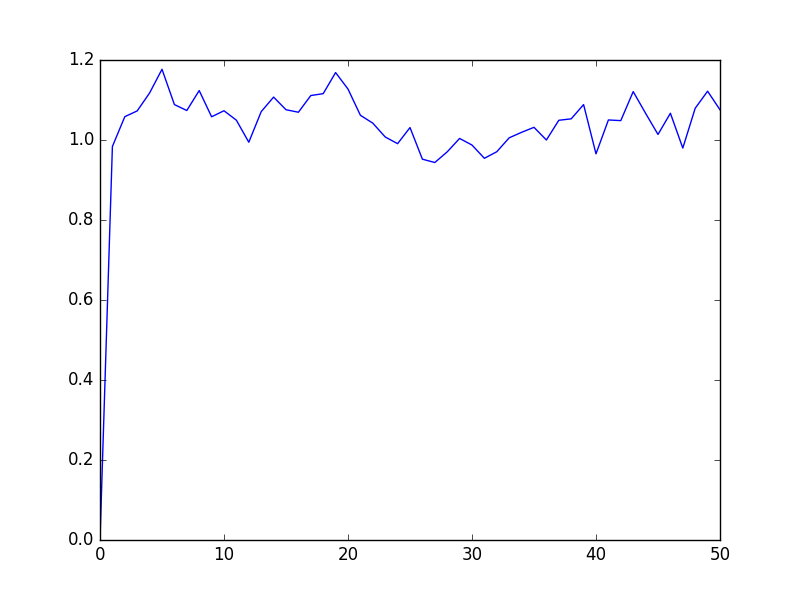
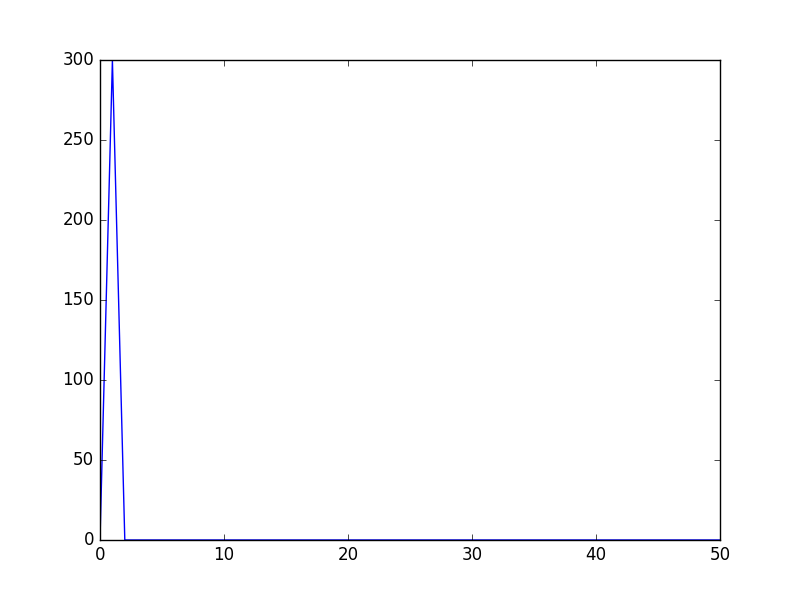
before refactor

diff --git a/learn.py b/learn.py
@@ -17,18 +17,19 @@ np.random.seed(0)
 # Parameters
 learning_rate = 0.0001
 num_episodes = 501
-initial_eps = 1
-discount = 0.9
-batch_size = 10
-buffer = 40
+initial_eps = 0.5
+eps_decay = 0.999
+discount = 0.7
+batch_size = 40
+buffer = 3000
 log_freq = 10
 num_runs = 1
-reg_constant = 0
+reg_constant = 0.01
 grad_update_freq = 50
 
 # Network Parameters
-n_hidden_1 = 20 # 1st layer number of nodes
-n_hidden_2 = 20 # 2nd layer number of nodes
+n_hidden_1 = 30 # 1st layer number of nodes
+n_hidden_2 = 30 # 2nd layer number of nodes
 n_input = 4 # input layer (state)
 n_output = 2 # output layer (q values for actions)
 
@@ -45,14 +46,14 @@ target_output = tf.placeholder(shape=[1,n_output],dtype=tf.float32)
 tvars = tf.trainable_variables()
 reg_losses = tf.get_collection(tf.GraphKeys.REGULARIZATION_LOSSES)
 loss = tf.reduce_sum(tf.square(target_output - current_output)) + reg_constant * sum(reg_losses)
-trainer = tf.train.AdamOptimizer(learning_rate=learning_rate)
+trainer = tf.train.GradientDescentOptimizer(learning_rate=learning_rate)
 # frozen network for stability
 W1Grad = tf.placeholder(tf.float32,name="batch_grad1")
 W2Grad = tf.placeholder(tf.float32,name="batch_grad2")
 WoutGrad = tf.placeholder(tf.float32,name="batch_grad3")
 batchGrad = [W1Grad,W2Grad,WoutGrad]
 # ignore hidden weights which it somehow knows we defined
-newGrads = tf.gradients(loss, tvars)[0:2]
+newGrads = tf.gradients(loss, tvars)[0:3]
 updateGrads = trainer.apply_gradients(zip(batchGrad, tvars))
 # updateModel = trainer.minimize(loss)
 
@@ -91,7 +92,7 @@ for alpha in range(num_runs):
             d = False
             j = 0
             # The q-network
-            while j < 10000:
+            while j < 1000:
                 # env.render()
                 j+=1
                 # Choose an action greedily (with e chance of random action) from the Q-network
@@ -102,45 +103,44 @@ for alpha in range(num_runs):
                     a = env.action_space.sample()
                 # Get new state and reward from environment
                 s1,r,d,_ = env.step(a)
-                if d == True:
-                    # Reduce chance of random action as we train the model
-                    r = -50
-                    eps -= initial_eps / (num_episodes - 50)
-                    eps = max(eps, 0)
-                    replay.append((s, a, r, s1))
-                    priority.append(0.001)
-                    stepUntilDoneList.append(j)
-                    break
+                if d:
+                    # Penalise failure (should we do this?)
+                    if r < 200:
+                        r -= 50
                 if len(replay) < buffer:  # if buffer not filled, add to it
                     replay.append((s, a, r, s1))
                     priority.append(0.001)
-                    rTotal += r
-                    s = copy.copy(s1)
-                    continue
+                    if d:
+                        rTotal += r
+                        break
                 # buffer is full - overwrite values
-                if (h < (buffer - 1)):
-                    h += 1
                 else:
-                    h = 0
-                replay[h] = (s, a, r, s1)
-                priority[h] = np.max(priority)
+                    if (h < (buffer - 1)):
+                        h += 1
+                    else:
+                        h = 0
+                    replay[h] = (s, a, r, s1)
+                    priority[h] = 0.001 # np.max(priority)
                 s = copy.copy(s1)
                 rTotal += r
                 # randomly sample our experience replay memory
                 # minibatch_indices = np.random.choice(range(len(replay)), batch_size,
                                                      # p=[np.sqrt(a)/sum([np.sqrt(b) for b in priority]) for a in priority])
+                if not (batch_size < len(replay)):
+                    break
                 minibatch_indices = np.random.choice(range(len(replay)), batch_size)
                 for index in minibatch_indices:
+                    temp_loss = 0
                     memory = replay[index]
                     s_mem, a_mem, r_mem, s1_mem = memory
-                    q = sess.run(current_output, feed_dict={inputs[0]: [s_mem]})[0]
+                    target_q = sess.run(current_output, feed_dict={inputs[0]: [s_mem]})[0]
                     # Obtain the Q' values by feeding the new state through our network
                     q_prime = sess.run(current_output, feed_dict={inputs[0]: [s1_mem]})[0]
                     # Obtain max Q' and set our target value for chosen action
                     max_q_prime = np.max(q_prime)
-                    target_q = q
                     # Q-learning
-                    target_q[a_mem] = np.clip(r_mem + discount * max_q_prime,-1,1)
+                    target_q[a_mem] = np.clip(r_mem + discount * max_q_prime,-200,300)
+                    # print(target_q[a_mem])
                     # print(target_q)
                     # SARSA
                     # target_q[a_mem] = np.clip(r_mem + discount * q_prime[a_mem],-1,1)
@@ -148,8 +148,8 @@ for alpha in range(num_runs):
                     # why do we have to do these sequentially?
                     tGrad = sess.run(newGrads, feed_dict={inputs[0]: [s_mem], target_output: [target_q]})
                     loss_val = sess.run(loss, feed_dict={inputs[0]: [s_mem], target_output: [target_q]})
-                    priority[index] = abs(loss_val)
-                    lossTotal += loss_val
+                    # priority[index] = abs(loss_val)
+                    temp_loss += loss_val
                     for ix, grad in enumerate(tGrad):
                         # accumulate the gradients
                         gradBuffer[ix] += grad
@@ -158,9 +158,20 @@ for alpha in range(num_runs):
                         sess.run(updateGrads, feed_dict={W1Grad: gradBuffer[0], W2Grad: gradBuffer[1], WoutGrad: gradBuffer[2]})
                         for ix, grad in enumerate(gradBuffer):
                             gradBuffer[ix] = grad * 0
-                lossTotal /= batch_size
-            sList.append(s)
-            jList.append(j)
+                lossTotal += temp_loss / batch_size
+                if d:
+                    # Reduce chance of random action as we train the model
+                    # eps -= initial_eps / (num_episodes)
+                    eps = eps * eps_decay
+                    eps = max(eps, 1e-5)
+                    # get loss per iteration, a better measure
+                    lossTotal = lossTotal / j
+                    # replay.append((s, a, r, s1))
+                    # priority.append(0.001)
+                    stepUntilDoneList.append(j)
+                    break
+            # sList.append(s)
+            # jList.append(j)
             rList.append(rTotal)
             lossList.append(lossTotal)
             if i % log_freq == 0:
